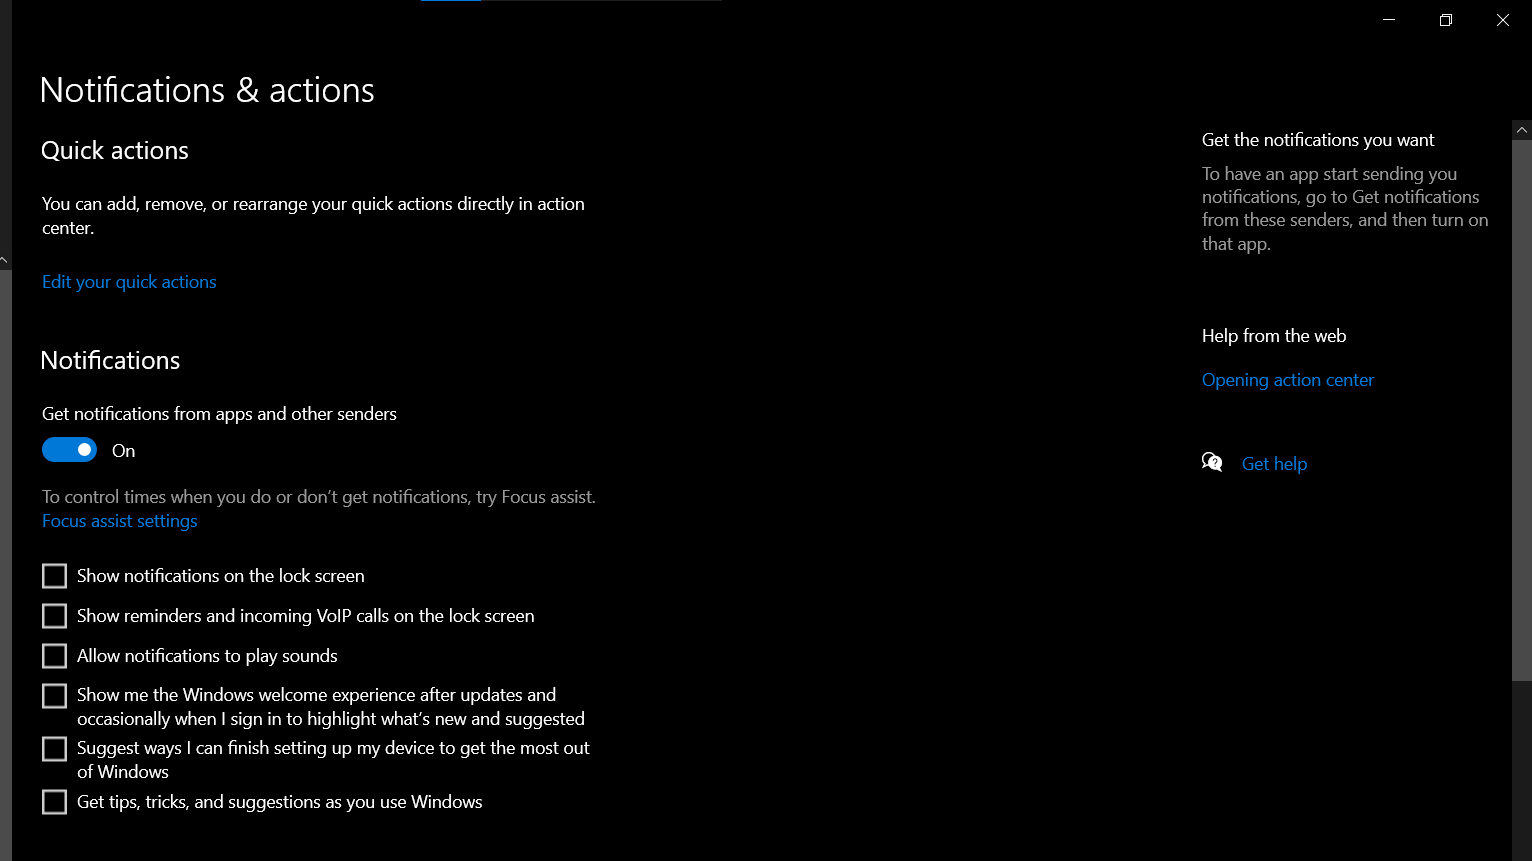
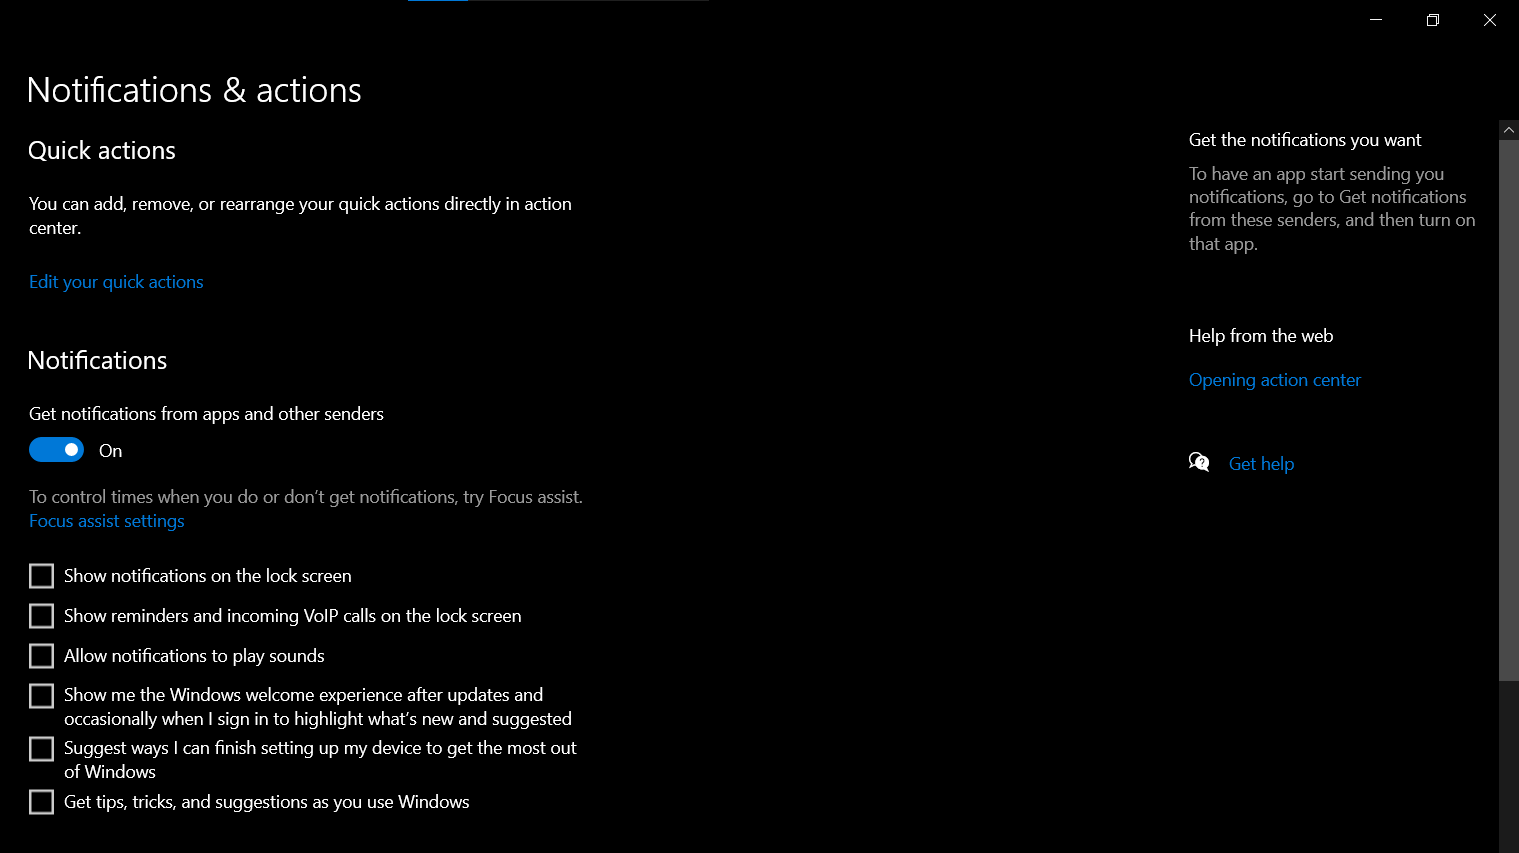
auto size pics

diff --git a/blog/templates/home/step_3/step3_1.html b/blog/templates/home/step_3/step3_1.html
@@ -13,7 +13,7 @@
     <p class="pt-5 ls text-right" style="font-size:125%;">
       First, search and open <b>Settings</b> app from the <b>Start</b>. Then proceed to <b>System</b> settings.
       <br><br>
-      <img src="{%static 'searchSettings.png'%}" alt="" height="540", width="940">
+      <img src="{%static 'searchSettings.png'%}" alt="" class="center-fit">
       <br><br>
       <b>1. Stream HDR Video Settings:</b>
       <br><br>
@@ -21,19 +21,19 @@
       <br><br>
       In <b>Windows HD color settings</b>, go to <b>change calibration settings</b>, click <b>"Reset Calibration"</b>.
       <br><br>
-      <img src="{%static 'streamHDR.png'%}" alt="" height="540", width="940">
+      <img src="{%static 'streamHDR.png'%}" alt="" class="center-fit">
       <br><br>
       <b>2. Advanced Scaling Settings:</b>
       <br><br>
       Go to <b>Advanced scaling settings</b>, turn on <b>let Windows try to fix apps so they're not blurry</b>.
       <br><br>
-      <img src="{%static 'advancedScaling.png'%}" alt="" height="540", width="940">
+      <img src="{%static 'advancedScaling.png'%}" alt="" class="center-fit">
       <br><br>
       <b>3. Advanced Display Settings:</b>
       <br><br>
       Go to <b>Advanced display settings</b>, change the <b>Refresh rate</b> to the highest refresh rate your PC can support.
       <br><br>
-      <img src="{%static 'advancedDisplay.png'%}" alt="" height="540", width="940">
+      <img src="{%static 'advancedDisplay.png'%}" alt="" class="center-fit">
       <br><br>
       <b>4. Graphics Settings</b>:
       <br><br>
@@ -41,35 +41,35 @@
       <br><br>
       You can browse and add your game .exe files here, then set them to <b>High Performance</b>.
       <br><br>
-      <img src="{%static 'graphicsS.png'%}" alt="" height="540", width="940">
+      <img src="{%static 'graphicsS.png'%}" alt="" class="center-fit">
     </p><br>
 
     <h3>2. Notifications & actions Settings (System -> Notifications & actions):</h3>
     <p class="pt-5 ls text-right" style="font-size:125%;">
       <b>Untick</b> all the settings on the figure shown below:
       <br><br>
-      <img src="{%static 'n&a.png'%}" alt="" height="540", width="940">
+      <img src="{%static 'n&a.png'%}" alt="" class="center-fit">
     </p><br>
 
     <h3>3. Focus assists Settings (System -> Focus assists):</h3>
     <p class="pt-5 ls text-right" style="font-size:125%;">
       Select <b>Priority only</b>.
       <br><br>
-      <img src="{%static 'fAsist.png'%}" alt="" height="540", width="940">
+      <img src="{%static 'fAsist.png'%}" alt="" class="center-fit">
     </p><br>
 
     <h3>4. Storage Settings (System -> Storage):</h3>
     <p class="pt-5 ls text-right" style="font-size:125%;">
       Turn on <b>Storage Sense</b>.
       <br><br>
-      <img src="{%static 'storageS.png'%}" alt="" height="540", width="940">
+      <img src="{%static 'storageS.png'%}" alt="" class="center-fit">
     </p><br>
 
     <h3>5. Multitasking Settings (System -> Multitasking):</h3>
     <p class="pt-5 ls text-right" style="font-size:125%;">
       Turn off <b>Timeline</b>.
       <br><br>
-      <img src="{%static 'multiT.png'%}" alt="" height="540", width="940">
+      <img src="{%static 'multiT.png'%}" alt="" class="center-fit">
     </p><br>
 
     <h3>6. Shared experiences Settings (System -> Shared experiences):</h3>
@@ -78,14 +78,14 @@
       <br><br>
       Turn off <b>share across devices</b>.
       <br><br>
-      <img src="{%static 'sharedExp.png'%}" alt="" height="540", width="940">
+      <img src="{%static 'sharedExp.png'%}" alt="" class="center-fit">
     </p><br>
 
     <h3>7. Clipboard Settings (System -> Clipboard):</h3>
     <p class="pt-5 ls text-right" style="font-size:125%;">
       Turn off <b>Sync across devices</b>.
       <br><br>
-      <img src="{%static 'clipB.png'%}" alt="" height="540", width="940">
+      <img src="{%static 'clipB.png'%}" alt="" class="center-fit">
     </p><br>
 
   </div>

diff --git a/blog/templates/home/step_2.html b/blog/templates/home/step_2.html
@@ -19,7 +19,7 @@
       <br><br>
       After finish downloading the latest driver, click <b>"Express Installation"</b> and let the progress to be completed.
       <br><br>
-      <img src="{%static 'geforceExp.png'%}" alt="" height="540", width="940">
+      <img src="{%static 'geforceExp.png'%}" alt="" class="center-fit">
     </p><br>
 
     <h3>2. Optimize Games Graphics in Geforce Experience</h3>
@@ -27,7 +27,7 @@
       You can optimize a game graphics by opening <b>Geforce Experience</b>, click on a game profile then click <b>"Optimize"</b>.
       <br>
       <br>
-      <img src="{%static 'geforceExpOptimize.png'%}" alt="" height="540", width="960">
+      <img src="{%static 'geforceExpOptimize.png'%}" alt="" class="center-fit">
     </p><br>
 
     <h3>3. Further Optimizations in Geforce Experience</h3>
@@ -46,7 +46,7 @@
       <br><br>
       Note that <b>turning on</b> these features on <b>may affect your gameplay</b> if you're not using a high-end laptop.
       <br><br>
-      <img src="{%static 'geforceExpFeatures.png'%}" alt="" height="540", width="960">
+      <img src="{%static 'geforceExpFeatures.png'%}" alt="" class="center-fit">
     </p><br>
 
     <h3>3. Optimize Nvidia Control Panel Settings</h3>
@@ -57,7 +57,7 @@
       <br><br>
       Search and open <b>Nvidia Control Panel</b> from the start or open it from the dekstop context menu.
       <br><br>
-      <img src="{%static 'NvidiaCp.png'%}" alt="" height="540", width="960">
+      <img src="{%static 'NvidiaCp.png'%}" alt="" class="center-fit">
       <br><br>
       <b>2. Restore to Default Settings:</b>
       <br><br>
@@ -65,13 +65,13 @@
       <br><br>
       Click <b>"Apply"</b> at the right side bottom to apply the settings.
       <br><br>
-      <img src="{%static 'NvidiaCpRestore.png'%}" alt="" height="540", width="960">
+      <img src="{%static 'NvidiaCpRestore.png'%}" alt="" class="center-fit">
       <br><br>
       <b>3. Change Low Latency Mode to Ultra:</b>
       <br><br>
       Proceed to <b>Low Latency Mode</b> Settings, and change it to <b>Ultra</b>, click <b>"Apply"</b> to apply the settings.
       <br><br>
-      <img src="{%static 'NvidiaCpGs.png'%}" alt="" height="540", width="960">
+      <img src="{%static 'NvidiaCpGs.png'%}" alt="" class="center-fit">
       <br><br>
       <b>4. Custom Program Settings:</b>
       <br><br>
@@ -83,7 +83,7 @@
       <br><br>
       Leave all the settings to be <b>default</b> if your graphics card can support up to <b>1920*1080 resolution</b> of the game.
       <br><br>
-      <img src="{%static 'NvidiaCpPs.png'%}" alt="" height="540", width="960">
+      <img src="{%static 'NvidiaCpPs.png'%}" alt="" class="center-fit">
       <br><br>
       Now you're finished with the <b>Nvidia Control Panel</b> settings.
     </p>

diff --git a/blog/templates/home/step_1.html b/blog/templates/home/step_1.html
@@ -18,7 +18,7 @@
       Driver Booster is a software that can identify the outdated drivers, then update the drivers to the latest version.
       <br>
       <br>
-      <img src="{%static 'driver_booster.png'%}" alt="" height="620", width="940">
+        <img src="{%static 'driverB.png'%}" alt="" class="center-fit">
     </p><br>
 
     <h3>2. Update Drivers for Intel Devices (Intel Driver & Support Assistant)</h3>
@@ -26,7 +26,7 @@
       Then you will also need to install the <a href="https://www.intel.com/content/www/us/en/support/detect.html" target="_blank"><b>Intel Driver & Support Asisstant</b></a> to keep the drivers of the Intel devices up to date.
       <br>
       <br>
-      <img src="{%static 'intel_DSA.jpg'%}" alt="" height="540", width="960">
+      <img src="{%static 'intel_DSA.jpg'%}" alt="" class="center-fit">
     </p><br>
 
     <h3>3. Update Windows</h3>
@@ -43,7 +43,7 @@
       Don't allow <b>optional quality updates</b> as these updates are not stable and may have bugs.
       <br>
       <br>
-      <img src="{%static 'windows_update.jpg'%}" alt="" height="540", width="960">
+      <img src="{%static 'windows_update.jpg'%}" alt="" class="center-fit">
     </p><br>
 
     <h3>3. Update Windows Apps in Microsoft Store</h3>
@@ -54,7 +54,7 @@
       <br><br>
       You can also prevent <b>Windows apps</b> from updating automatically by turning off <b>Update apps automatically</b> in <b>Microsoft Store -> Settings</b>.
       <br><br>
-      <img src="{%static 'mS.png'%}" alt="" height="540", width="960">
+      <img src="{%static 'mS.png'%}" alt="" class="center-fit">
     </p>
 
     <br><hr><br>

diff --git a/portfolio/templates/base.html b/portfolio/templates/base.html
@@ -84,13 +84,21 @@
     to{ bottom:0; opacity:1 }
   }
 
-  .ls{
+  .ls
+  {
     line-height:1.5;
   }
 
   #main_content {
     display: none;
   }
+
+  .center-fit {
+    max-width: 100%;
+    max-height: 100%;
+    margin: auto;
+  }
+
   </style>
 
   <script data-ad-client="ca-pub-5796506592913471" async src="https://pagead2.googlesyndication.com/pagead/js/adsbygoogle.js"></script>
